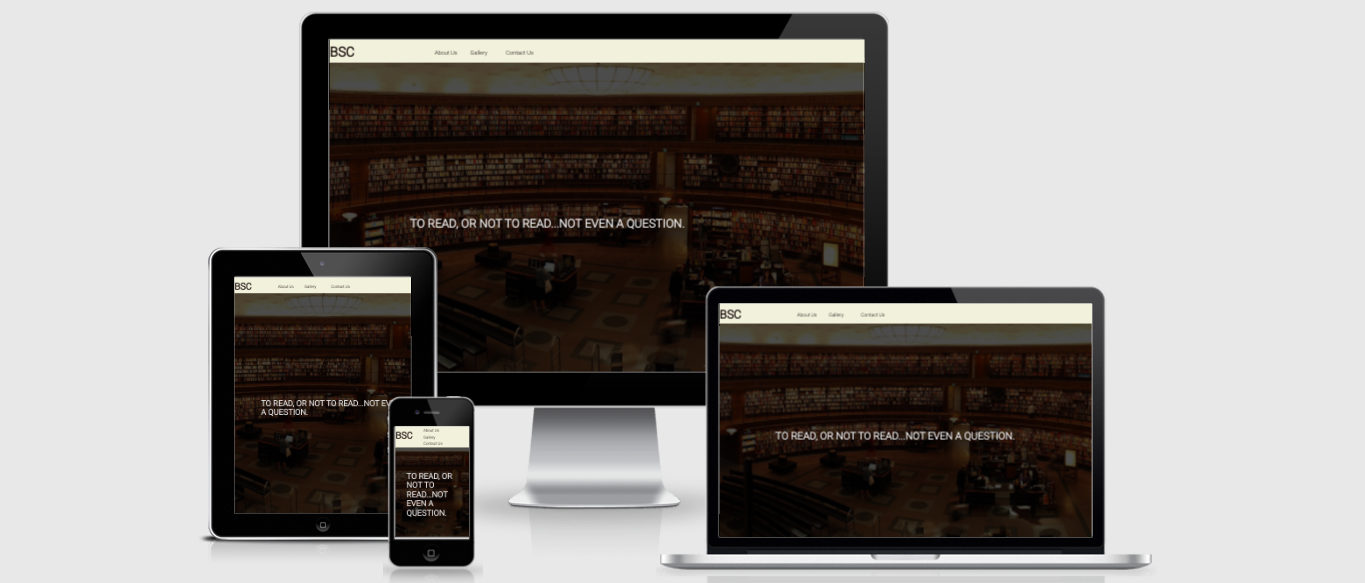
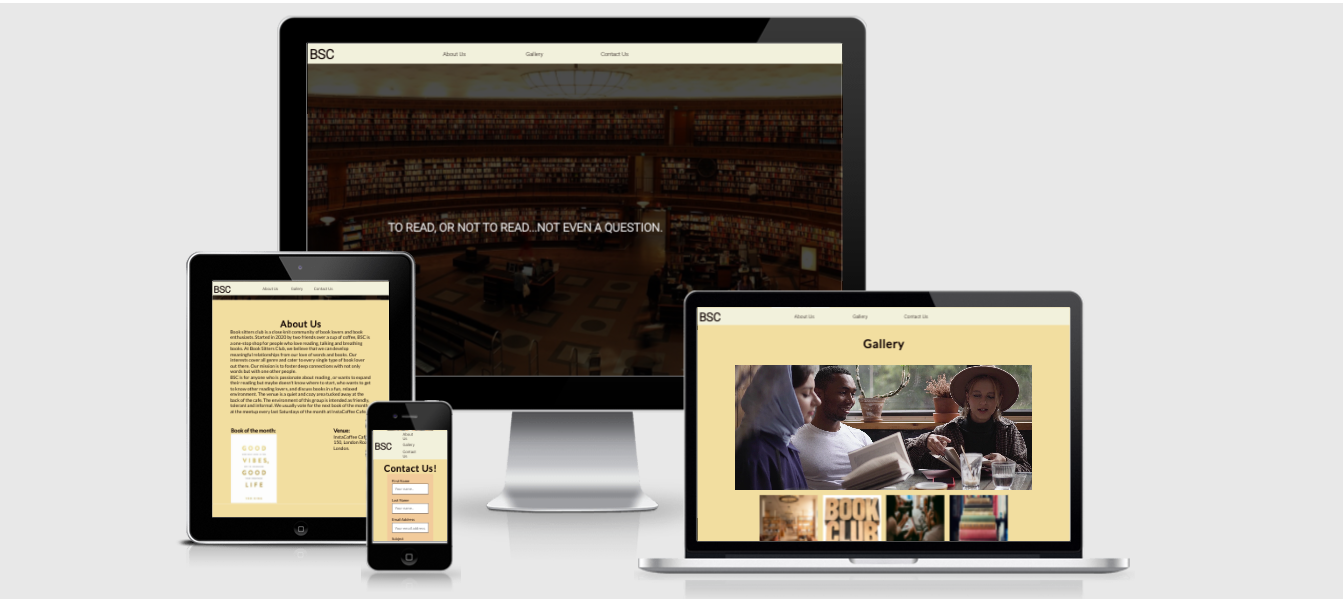
Replace images in README.md

Changed region(s): [[0.1221, 0.0, 0.8548, 1.0], [0.4274, 0.1852, 0.4579, 0.2161], [0.3663, 0.5557, 0.3969, 0.5866]]

diff --git a/README.md b/README.md
@@ -55,8 +55,7 @@ I have used the following features in this project:
 * The About us section gives details about the background of the book club, how and when it started,  it's mission and when the meet up takes place. 
 * The About Us section also contains an image of the book of the month, which would be updated as required. 
 * This section also gives details of the venue for the meet up. 
-![About Us](assets/images/about-us-one.png)
-![About Us](assets/images/about-us-two.png)
+![About Us](assets/images/about-us.png)
 
 ## The Gallery Section
 * The gallery provides the user with a video of one of the book reviews held at the Cafe.
@@ -66,6 +65,7 @@ I have used the following features in this project:
 
 ## The Contact Us Section
 * The Contact us section allows users to submit a form, containing the first and last name, email address and the message for further enquires.
+* A message showing that the form was submitted successfully also open in a new tab. 
 * This section is valuable to the user, as it gives them the ability to contact the book club if they need to. 
 ![Contact Us](assets/images/contact-us.png)
 
@@ -92,10 +92,12 @@ Git was used for version control by using the Gitpod terminal to  commit to Git 
 GitPod was used as an IDE whilst coding this site.
 * GitHub:
 GitHub is being used to store all the code for this project after being pushed from GitPod.
+* Formspree:
+[Formspree](https://formspree.io/) was used to embed the contact us form. 
 * Am I Responsive: 
- [Am I Responsive](http://ami.responsivedesign.is/) was used to create the images in the Final Design section.
-* Balsamiq:
-Balsamiq was used in the initial design process to make wireframes.
+ [Am I Responsive](http://ami.responsivedesign.is/#) was used to create the images in the Final Design section.
+* Balsamiq: 
+[Balsamiq](https://balsamiq.com/) was used in the initial design process to make wireframes.
 * Chrome Developer Tools:
 Chrome Developer Tools was used for trouble shooting and trying new visual changes without it affecting the current code.
 
@@ -136,6 +138,6 @@ The site was deployed to GitHub pages. The steps to deploy are as follows:
 * The video in the gallery was also taken from [Pexels.](https://www.pexels.com/video/group-of-people-talking-while-holding-a-book-5359175/)
 
 # ACKNOWLEDGEMENTS:
-* Firstly, I would like to thank [AbdulFattah Badara](https://github.com/fobadara) for all his support and patience during this project. He never got tired of answering my "silly" questions. 
+* I would like to thank [AbdulFattah Badara](https://github.com/fobadara) for all his support and patience during this project. 
 * I would also like to thank my Code Institute mentor, [Anthony Ugwu](https://github.com/tonyguesswho)  for all his support, encouragement and corrections. 
 
